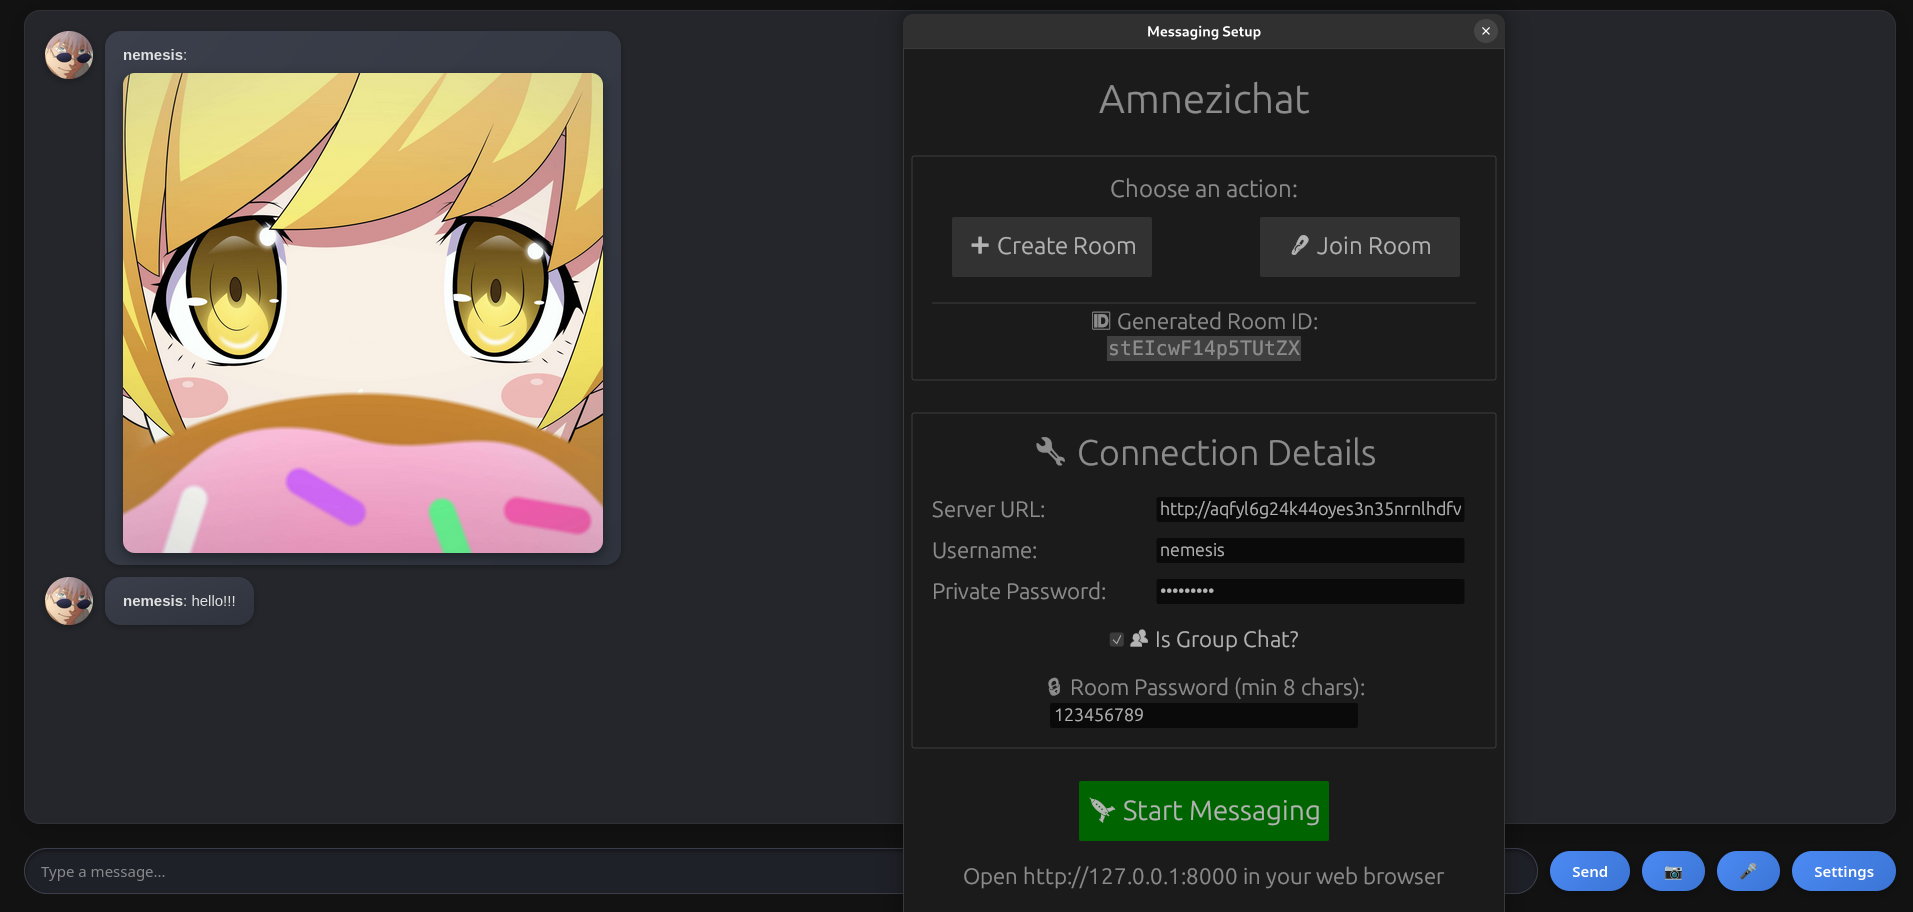
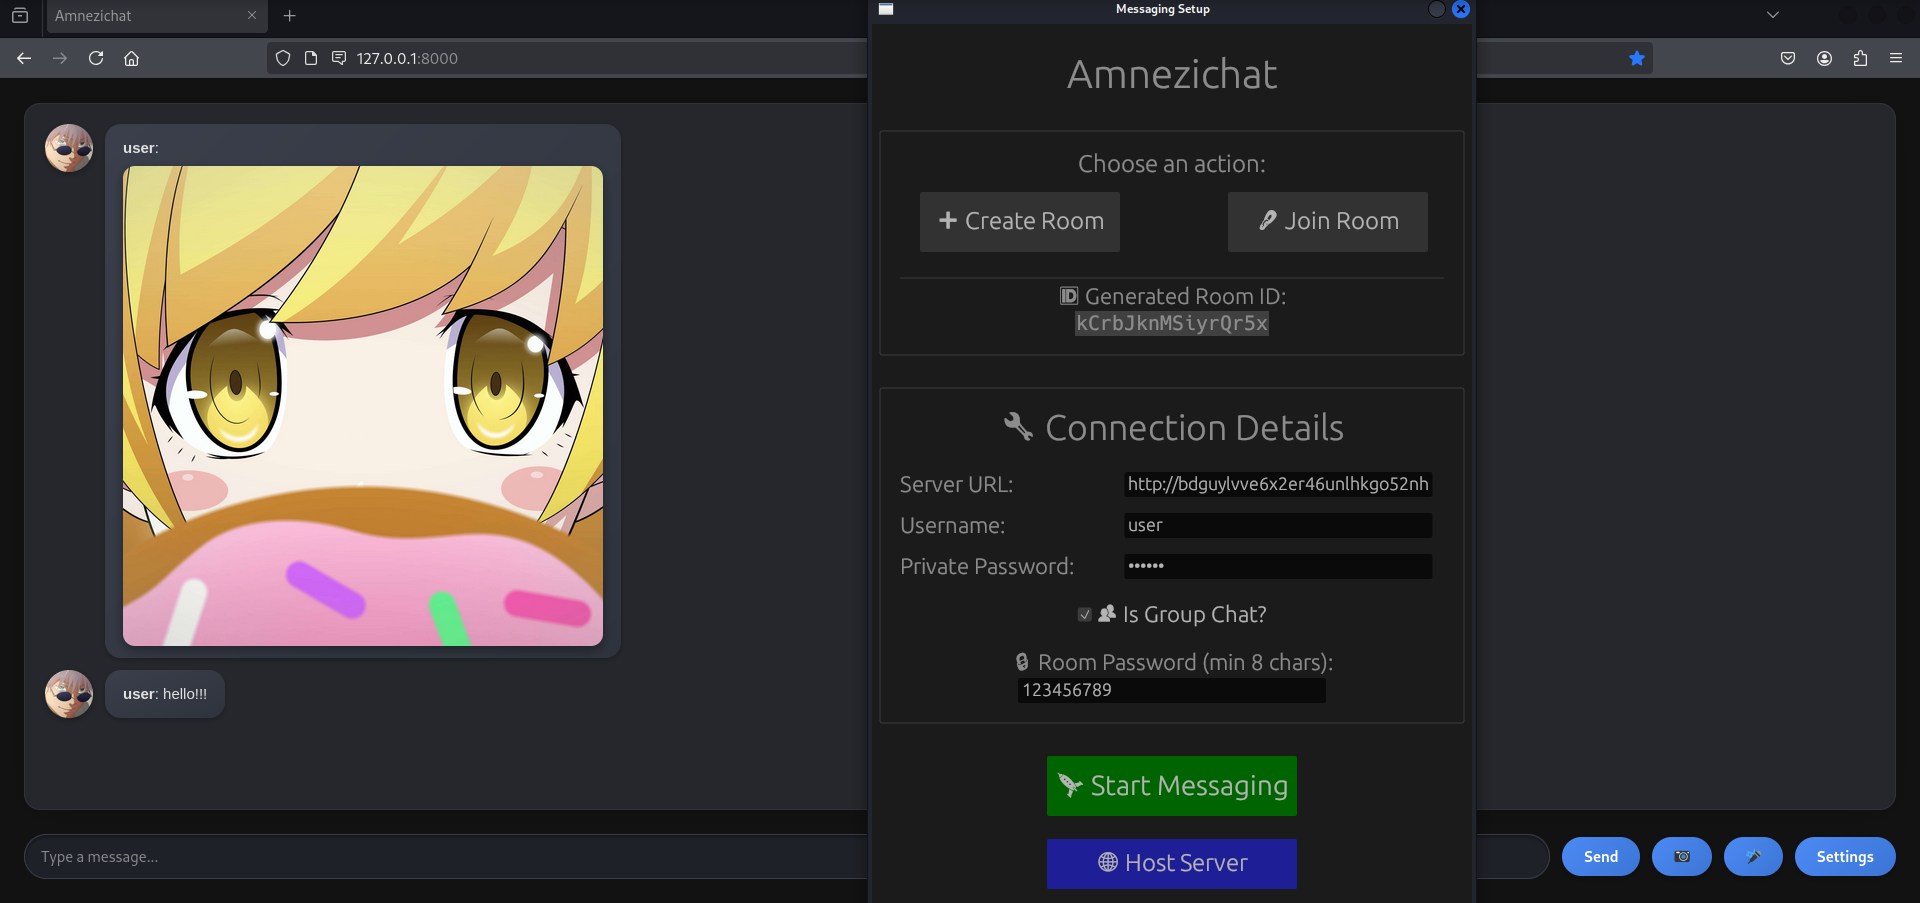
Add host server option to GUI

diff --git a/server/static/index.html b/server/static/index.html
@@ -53,7 +53,7 @@
         <h3>Build it Yourself</h3>
         <pre>
 sudo apt update
-sudo apt install curl build-essential git tor
+sudo apt install curl build-essential git tor xterm
 sudo systemctl enable --now tor.service
 curl https://sh.rustup.rs -sSf | sh -s -- -y
 git clone https://github.com/umutcamliyurt/Amnezichat.git

diff --git a/client/src/main.rs b/client/src/main.rs
@@ -51,6 +51,7 @@ use std::{
     collections::HashSet,
     error::Error,
 };
+use std::fs;
 use serde::{Deserialize, Serialize};
 use chacha20poly1305::aead::OsRng;
 use rand::RngCore;
@@ -61,6 +62,9 @@ use rfd::MessageDialog;
 use rfd::MessageButtons;
 use rfd::MessageLevel;
 use rfd::MessageDialogResult;
+use std::process::Stdio;
+use std::os::unix::fs::PermissionsExt;
+use which::which;
 
 fn get_raw_bytes_public_key(pk: &PublicKey) -> &[u8] {
     pk.as_ref() 
@@ -250,11 +254,8 @@ impl Default for AppState {
 
 fn main() -> Result<(), Box<dyn Error>> {
     let mut options = eframe::NativeOptions::default();
-
-    options.viewport.resizable = Some(false);  
-
-    options.viewport.inner_size = Some(egui::vec2(600.0, 900.0));  
-
+    options.viewport.resizable = Some(false);
+    options.viewport.inner_size = Some(egui::vec2(600.0, 1000.0));
     eframe::run_native("Messaging Setup", options, Box::new(|_cc| Box::new(SetupApp::default())))?;
     Ok(())
 }
@@ -284,7 +285,6 @@ impl eframe::App for SetupApp {
                         ui.label(egui::RichText::new("Choose an action:").size(24.0));
                         ui.add_space(10.0);
                         ui.horizontal_wrapped(|ui| {
-
                             ui.add_space(20.0); 
                             if ui.add(
                                 egui::Button::new(egui::RichText::new("➕ Create Room").size(24.0))
@@ -390,9 +390,23 @@ impl eframe::App for SetupApp {
                     if let Err(err) = validate_and_start(self.state.clone()) {
                         self.state.error_message = Some(err.to_string());
                     } else {
-
                         self.state.show_url_label = true;
                     }
+                }
+
+                ui.add_space(20.0);
+
+                if ui.add(
+                    egui::Button::new(egui::RichText::new("🌐 Host Server").size(24.0))
+                        .fill(egui::Color32::from_rgb(30, 30, 150))
+                        .min_size(egui::vec2(250.0, 50.0))
+                ).clicked() {
+                    self.state.error_message = None;
+                    std::thread::spawn(|| {
+                        if let Err(e) = host_server() {
+                            eprintln!("Host server error: {}", e);
+                        }
+                    });
                 }
 
                 if let Some(err) = &self.state.error_message {
@@ -407,6 +421,110 @@ impl eframe::App for SetupApp {
             });
         });
     }
+}
+
+fn host_server() -> Result<(), Box<dyn std::error::Error>> {
+    let pkg_install = if which("apt").is_ok() {
+        "sudo apt update && sudo apt install -y git curl build-essential tor"
+    } else if which("dnf").is_ok() {
+        "sudo dnf install -y git curl gcc cmake make kernel-devel tor"
+    } else if which("pacman").is_ok() {
+        "sudo pacman -Sy --noconfirm git curl base-devel tor"
+    } else {
+        return Err("No supported package manager found".into());
+    };
+
+    Command::new("xterm")
+        .arg("-e")
+        .arg(format!("bash -c '{}'", pkg_install))
+        .spawn()?
+        .wait()?;
+
+    let setup_script = r#"
+        #!/bin/bash
+        set -e
+
+        # Install Rust if not already installed
+        if ! command -v cargo &> /dev/null; then
+            curl --proto '=https' --tlsv1.2 -sSf https://sh.rustup.rs | sh
+            source $HOME/.cargo/env
+        fi
+
+        # Clone the repo if not already cloned
+        if [ ! -d "Amnezichat" ]; then
+            git clone https://github.com/umutcamliyurt/Amnezichat.git
+        fi
+
+        cd Amnezichat
+
+        # Clean everything except 'server'
+        find . -mindepth 1 -maxdepth 1 ! -name 'server' -exec rm -rf {} +
+
+        cd server
+        cargo build --release
+        cargo run --release
+    "#;
+
+    fs::write("start_server.sh", setup_script)?;
+    fs::set_permissions("start_server.sh", fs::Permissions::from_mode(0o755))?;
+
+    Command::new("xterm")
+        .arg("-e")
+        .arg("bash -c './start_server.sh'")
+        .spawn()?
+        .wait()?;
+
+    configure_tor_for_onion_service()?;
+
+    Ok(())
+}
+
+fn configure_tor_for_onion_service() -> Result<(), Box<dyn std::error::Error>> {
+    let hidden_dir = "./hidden_service";
+    fs::create_dir_all(hidden_dir)?;
+    fs::set_permissions(hidden_dir, fs::Permissions::from_mode(0o700))?;
+
+    let torrc_path = format!("{}/torrc", hidden_dir);
+    let torrc_content = format!(
+        "HiddenServiceDir {}\nHiddenServicePort 80 127.0.0.1:8080\n",
+        hidden_dir
+    );
+    let mut file = OpenOptions::new()
+        .create(true)
+        .write(true)
+        .truncate(true)
+        .open(&torrc_path)?;
+    file.write_all(torrc_content.as_bytes())?;
+
+    let _ = Command::new("pkill").arg("tor").output();
+
+    let tor_cmd = format!("tor -f {}", torrc_path);
+    Command::new("nohup")
+        .arg("bash")
+        .arg("-c")
+        .arg(&tor_cmd)
+        .stdout(Stdio::null()) 
+        .stderr(Stdio::null()) 
+        .spawn()?;
+
+    let hostname_path = format!("{}/hostname", hidden_dir);
+    let start_time = std::time::Instant::now();
+    while !Path::new(&hostname_path).exists() {
+        if start_time.elapsed().as_secs() > 30 {
+            return Err("Timeout waiting for Tor to create the .onion address.".into());
+        }
+        std::thread::sleep(std::time::Duration::from_secs(1));
+    }
+
+    let onion = fs::read_to_string(&hostname_path)?.trim().to_string();
+    println!("Your Amnezichat server is live at: http://{}", onion);
+
+    MessageDialog::new()
+        .set_title("Tor Hidden Service")
+        .set_description(&format!("Your Amnezichat server is live at: http://{}", onion))
+        .show();
+
+    Ok(())
 }
 
 fn validate_and_start(state: AppState) -> Result<(), Box<dyn Error>> {

diff --git a/README_TR.md b/README_TR.md
@@ -65,15 +65,15 @@ Amnezichat, hiçbir kayıt tutulmamasını ve tüm mesaj verilerinin yalnızca s
     sudo apt install docker.io git
     git clone https://github.com/umutcamliyurt/Amnezichat.git
     cd Amnezichat/server/
-    sudo docker build -t amnezichatserver:latest .
-    sudo docker run -p 8080:8080 amnezichatserver:latest
+    docker build --network=host -t amnezichatserver:latest .
+    docker run --network=host amnezichatserver:latest
 
 ## İstemci kurulumu:
 
 **Web UI için http://localhost:8000 adresine bağlanın**
 
     sudo apt update
-    sudo apt install curl build-essential git tor
+    sudo apt install curl build-essential git tor xterm
     sudo systemctl enable --now tor.service
     curl https://sh.rustup.rs -sSf | sh -s -- -y
     git clone https://github.com/umutcamliyurt/Amnezichat.git
@@ -87,8 +87,14 @@ Amnezichat, hiçbir kayıt tutulmamasını ve tüm mesaj verilerinin yalnızca s
     sudo apt install docker.io git
     git clone https://github.com/umutcamliyurt/Amnezichat.git
     cd Amnezichat/client/
-    sudo docker build -t amnezichat:latest .
-    sudo docker run -p 8000:8000 amnezichat:latest
+    docker build --network=host -t amnezichat .
+    xhost +local:docker
+    docker run --rm \
+    --network=host \
+    -e DISPLAY=$DISPLAY \
+    -v /tmp/.X11-unix:/tmp/.X11-unix \
+    --env QT_X11_NO_MITSHM=1 \
+    amnezichat:latest
 
 ## Gereksinimler:
 

diff --git a/README.md b/README.md
@@ -65,15 +65,15 @@ Amnezichat offers a highly secure and privacy-focused messaging experience by en
     sudo apt install docker.io git
     git clone https://github.com/umutcamliyurt/Amnezichat.git
     cd Amnezichat/server/
-    sudo docker build -t amnezichatserver:latest .
-    sudo docker run -p 8080:8080 amnezichatserver:latest
+    docker build --network=host -t amnezichatserver:latest .
+    docker run --network=host amnezichatserver:latest
 
 ## Client setup:
 
 **For Web UI connect to http://localhost:8000**
 
     sudo apt update
-    sudo apt install curl build-essential git tor
+    sudo apt install curl build-essential git tor xterm
     sudo systemctl enable --now tor.service
     curl https://sh.rustup.rs -sSf | sh -s -- -y
     git clone https://github.com/umutcamliyurt/Amnezichat.git
@@ -87,8 +87,15 @@ Amnezichat offers a highly secure and privacy-focused messaging experience by en
     sudo apt install docker.io git
     git clone https://github.com/umutcamliyurt/Amnezichat.git
     cd Amnezichat/client/
-    sudo docker build -t amnezichat:latest .
-    sudo docker run -p 8000:8000 amnezichat:latest
+    docker build --network=host -t amnezichat .
+    xhost +local:docker
+    docker run --rm \
+    --network=host \
+    -e DISPLAY=$DISPLAY \
+    -v /tmp/.X11-unix:/tmp/.X11-unix \
+    --env QT_X11_NO_MITSHM=1 \
+    amnezichat:latest
+
 
 ## Requirements:
 
